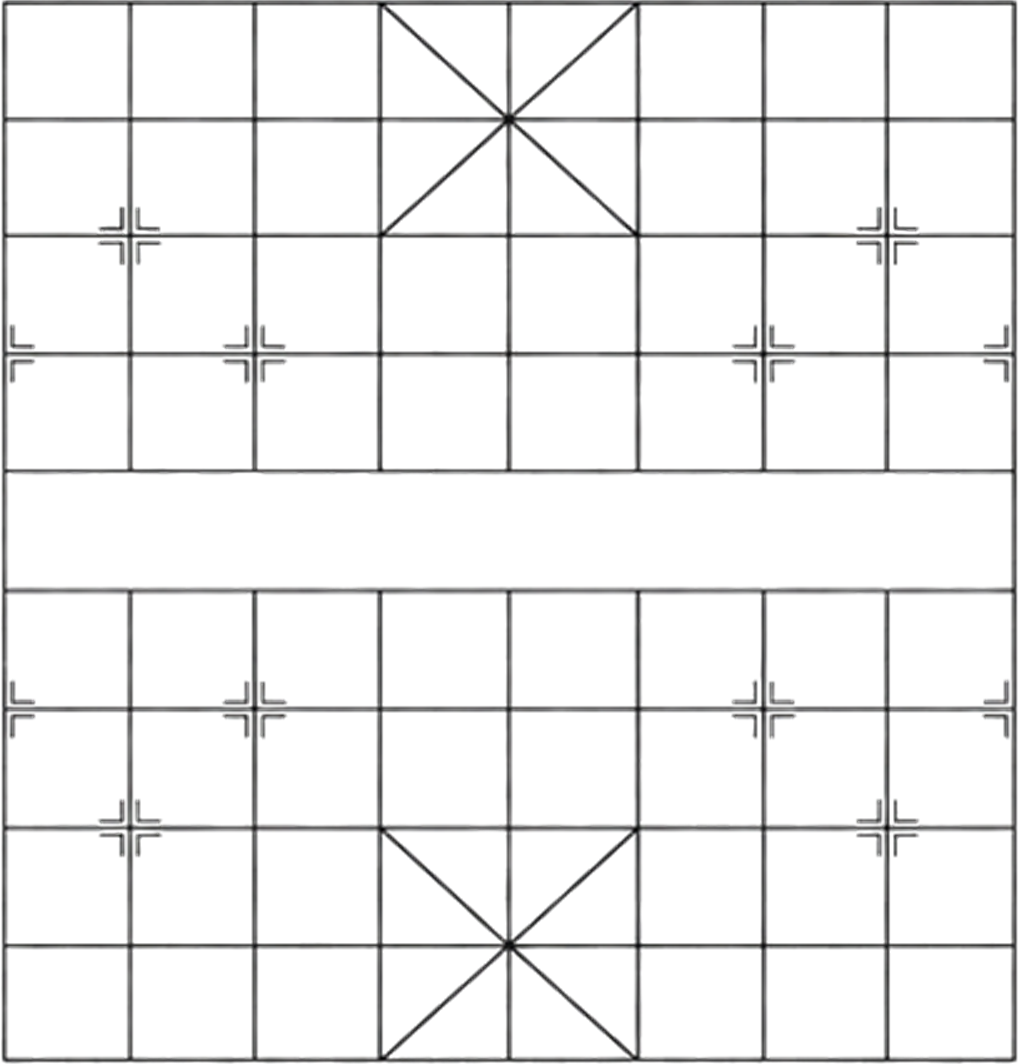
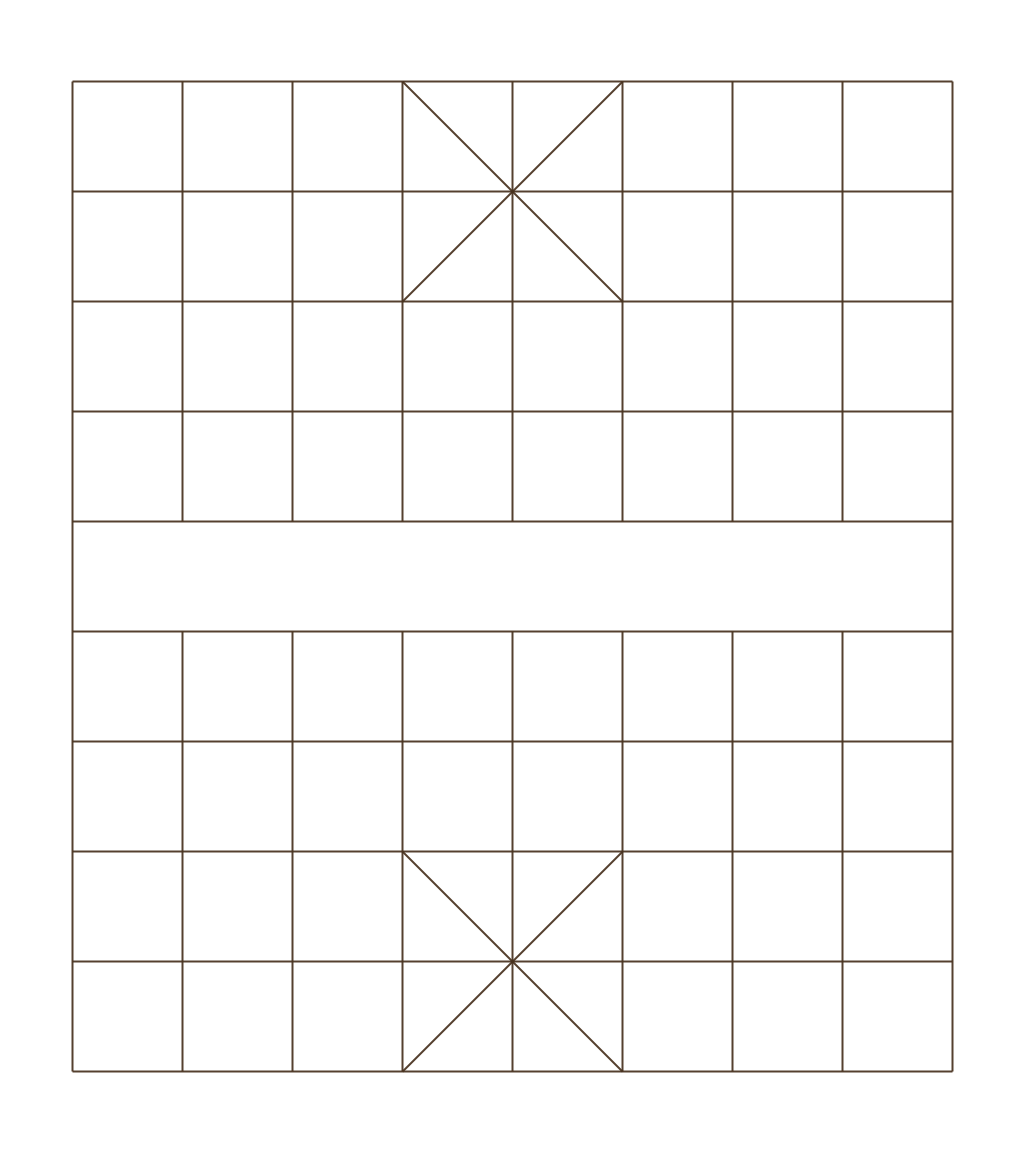
feat(assets): adopt the updated 2048x2304 board with an even 220px grid
The redrawn board fixes the uneven grid of the previous image (its rightmost
file was ~30% wider), so boardGeometry now derives intersections from a cell
size and origin instead of a per-line coordinate table. Verified against the
rendered webp: every intersection is within 1px of the drawn line.

Also updates the landscape aspect-ratio cap for the taller board and adds a
test that every piece stays inside the image bounds.

Changed region(s): [[0.0, 0.0, 1.0, 1.0], [0.9062, 0.7133, 0.9375, 0.7444]]

diff --git a/src/assets/boardGeometry.ts b/src/assets/boardGeometry.ts
@@ -1,16 +1,23 @@
 import { fileOf, idx, rankOf } from '../engine/types';
 
 /**
- * Measured on assets/board/board-empty.png (2048x1952). The AI-drawn grid is
- * not evenly spaced (the rightmost file is ~30% wider), so pieces are placed on
- * the measured intersections. Swap this table when swapping the board image.
+ * Measured on assets/board/board-empty.png (2048x2304). The grid is evenly
+ * spaced at 220px, with the top-left intersection at (144, 162).
+ *
+ * Swap these five numbers when swapping the board image. If a future board has
+ * uneven spacing, replace `files` and `ranks` with literal coordinate arrays;
+ * nothing else reads CELL or ORIGIN.
  */
+const CELL = 220;
+const ORIGIN_X = 144;
+const ORIGIN_Y = 162;
+
 export const BOARD = {
   width: 2048,
-  height: 1952,
-  files: [97.5, 314.5, 536.5, 763.5, 991.5, 1215.5, 1439.5, 1660, 1950.5],
-  ranks: [87, 280.5, 477, 677, 874.5, 1070.5, 1264, 1457.5, 1652.5, 1853],
-  pieceDiameter: 180, // 0.92 x mean rank spacing (196)
+  height: 2304,
+  files: Array.from({ length: 9 }, (_, i) => ORIGIN_X + i * CELL),
+  ranks: Array.from({ length: 10 }, (_, i) => ORIGIN_Y + i * CELL),
+  pieceDiameter: Math.round(CELL * 0.92),
 };
 
 const MIN_SPACING = Math.min(

diff --git a/src/assets/boardGeometry.test.ts b/src/assets/boardGeometry.test.ts
@@ -13,6 +13,16 @@ describe('boardGeometry', () => {
     expect(squareCenter(idx(0, 0), false)).toEqual({ x: BOARD.files[0], y: BOARD.ranks[0] });
     expect(squareCenter(idx(0, 0), true)).toEqual({ x: BOARD.files[8], y: BOARD.ranks[9] });
   });
+  it('keeps every piece fully inside the board image', () => {
+    const r = BOARD.pieceDiameter / 2;
+    for (let i = 0; i < 90; i++) {
+      const { x, y } = squareCenter(i, false);
+      expect(x - r).toBeGreaterThanOrEqual(0);
+      expect(y - r).toBeGreaterThanOrEqual(0);
+      expect(x + r).toBeLessThanOrEqual(BOARD.width);
+      expect(y + r).toBeLessThanOrEqual(BOARD.height);
+    }
+  });
   it('finds the nearest square only when close enough', () => {
     const c = squareCenter(idx(4, 5), false);
     expect(nearestSquare(c.x + 30, c.y - 30, false)).toBe(idx(4, 5));

diff --git a/src/style.css b/src/style.css
@@ -63,7 +63,7 @@ body {
     grid-template-columns: 1fr 240px;
   }
   .board-wrap {
-    width: min(100%, calc((100vh - 24px - 120px) * 2048 / 1952));
+    width: min(100%, calc((100vh - 24px - 120px) * 2048 / 2304));
   }
 }
 /* portrait: board top, panel bottom */

diff --git a/docs/superpowers/specs/2026-09-04-chinese-chess-design.md b/docs/superpowers/specs/2026-09-04-chinese-chess-design.md
@@ -142,15 +142,20 @@ tools/
 
 採用 `assets/` 內的點陣素材（AI 生成後以 `extract-assets.ps1` 從 `xiangqi-assets-sheet.png` 切出）。
 
-量測事實（2026-09-04）：
-- `assets/board/board-empty.png` 2048×1952。畫出的線不是等距：直線 x 座標約為 97.5、314.5、536.5、763.5、991.5、1215.5、1439.5、1660、1950.5（最右一路比其他寬約三成）；橫線 y 約為 87、280.5、477、677、874.5、1070.5、1264、1457.5、1652.5、1853。
-- `assets/board/grid-overlay.png` 的格線與上圖幾何不一致，不使用。
+量測事實（棋盤圖 2026-09-04 下午更新後重新量測）：
+- `assets/board/board-empty.png` 2048×2304。格線等距 220，左上角交叉點在 (144, 162)，
+  所以直線 x = 144 + 220i（i = 0..8），橫線 y = 162 + 220j（j = 0..9）。
+  以實際像素驗證，誤差在 1 像素以內。
+- `assets/board/grid-overlay.png` 1024×1152，正好是上圖的一半，格線位置一致；程式不使用它。
 - 14 張棋子圖 512×512，圓盤直徑約 450，但圓心位置各不相同（x 250–278）。
+
+（更新前的舊圖是 2048×1952 且格線不等距，最右一路寬約三成；`src/assets/boardGeometry.ts`
+換成等距公式後不再需要逐點座標表。）
 
 處理方式（`tools/prepare-assets.py`，輸出到 `assets/web/`，Vite 的 `publicDir` 指向這裡）：
 - 棋盤：等比縮到 1536 寬，存成有透明度的 WebP（品質 85）。
 - 棋子：以 alpha ≥ 250 的範圍裁切、置中到正方形畫布、縮到 384×384 PNG。
-- `src/assets/board-geometry.ts` 記錄棋盤圖尺寸與上述九路十線的交叉點座標（以原圖像素為單位，程式按縮放比例換算）；棋子放在交叉點上，直徑取相鄰橫線間距的 0.92 倍。之後換棋盤圖只需改這一份座標表。
+- `src/assets/boardGeometry.ts` 記錄棋盤圖尺寸、格距與左上角交叉點（以原圖像素為單位，程式按縮放比例換算）；棋子放在交叉點上，直徑取格距的 0.92 倍。之後換棋盤圖只需改這五個數字；若新圖格線不等距，把 `files` 與 `ranks` 換成逐點座標陣列即可，其他程式不會受影響。
 
 `assets/README.md` 與 `assets/manifest.json` 保留作為素材說明。
 

diff --git a/assets/README.md b/assets/README.md
@@ -2,8 +2,8 @@
 
 這套素材依 `sample.jpeg` 的淺色木紋、圓形木棋與紅黑書法字風格重新生成。
 
-- `board/board-empty.png`：完整空棋盤，2048 × 1952
-- `board/grid-overlay.png`：透明棋盤格線，1024 × 1064
+- `board/board-empty.png`：完整空棋盤，2048 × 2304；每格 220 × 220
+- `board/grid-overlay.png`：透明棋盤格線，1024 × 1152；每格 110 × 110
 - `textures/wood.png`：木紋底圖，1024 × 1024
 - `pieces/black/*.png`：黑方 7 種棋子，透明背景，512 × 512
 - `pieces/red/*.png`：紅方 7 種棋子，透明背景，512 × 512
